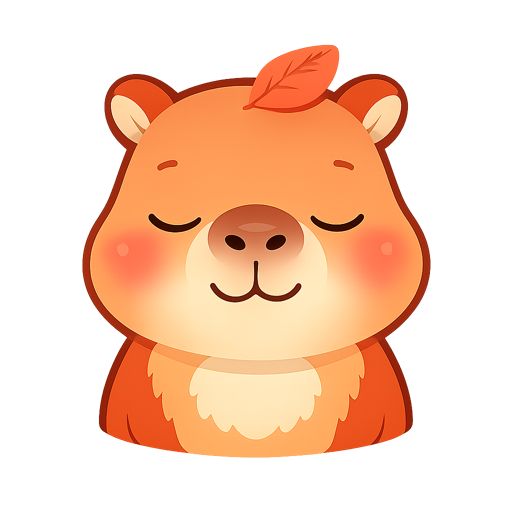
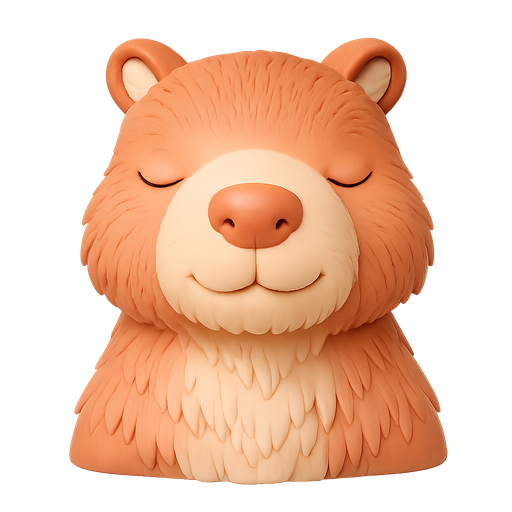
Swap Jesse to the soft clay capybara

diff --git a/src/components/orb.tsx b/src/components/orb.tsx
@@ -28,7 +28,8 @@ const POSES = {
 type Pose = keyof typeof POSES;
 
 export function OrbArt({ size, pose = 'idle' }: { size: number; id?: string; pose?: Pose }) {
-  return <Image source={POSES[pose]} style={{ width: size, height: size }} resizeMode="contain" />;
+  const source = size <= 64 && pose === 'idle' ? require('../../assets/jesse/icon.png') : POSES[pose];
+  return <Image source={source} style={{ width: size, height: size }} resizeMode="contain" />;
 }
 
 function Ripple({ progress, size }: { progress: SharedValue<number>; size: number }) {

diff --git a/hackathon.md b/hackathon.md
@@ -350,3 +350,9 @@ and smiles when an answer or a new conversation arrives, and hops when tapped.
 Reduce Motion is respected and the orb's accessibility labels are kept
 (`src/components/orb.tsx`, `src/lib/voice.ts`, `src/app/(tabs)/index.tsx`,
 `src/app/reflect.tsx`, `assets/jesse/`).
+
+## Clay capybara assets (YCAP-9)
+
+- Swapped Jesse's capybara art to Poom's pick, "soft clay 3D". Idle, blink, talk and happy come from one base image; the expression poses were generated as edits of it and only their face regions were blended onto idle, so ears, body and framing match frame to frame.
+- Added a 96px `icon.png` that `OrbArt` uses for idle at 64px and below (tab icon, Reflect header). Animation code is unchanged.
+- Verified: tsc and expo lint clean; Home and Reflect rendered on Expo web.
